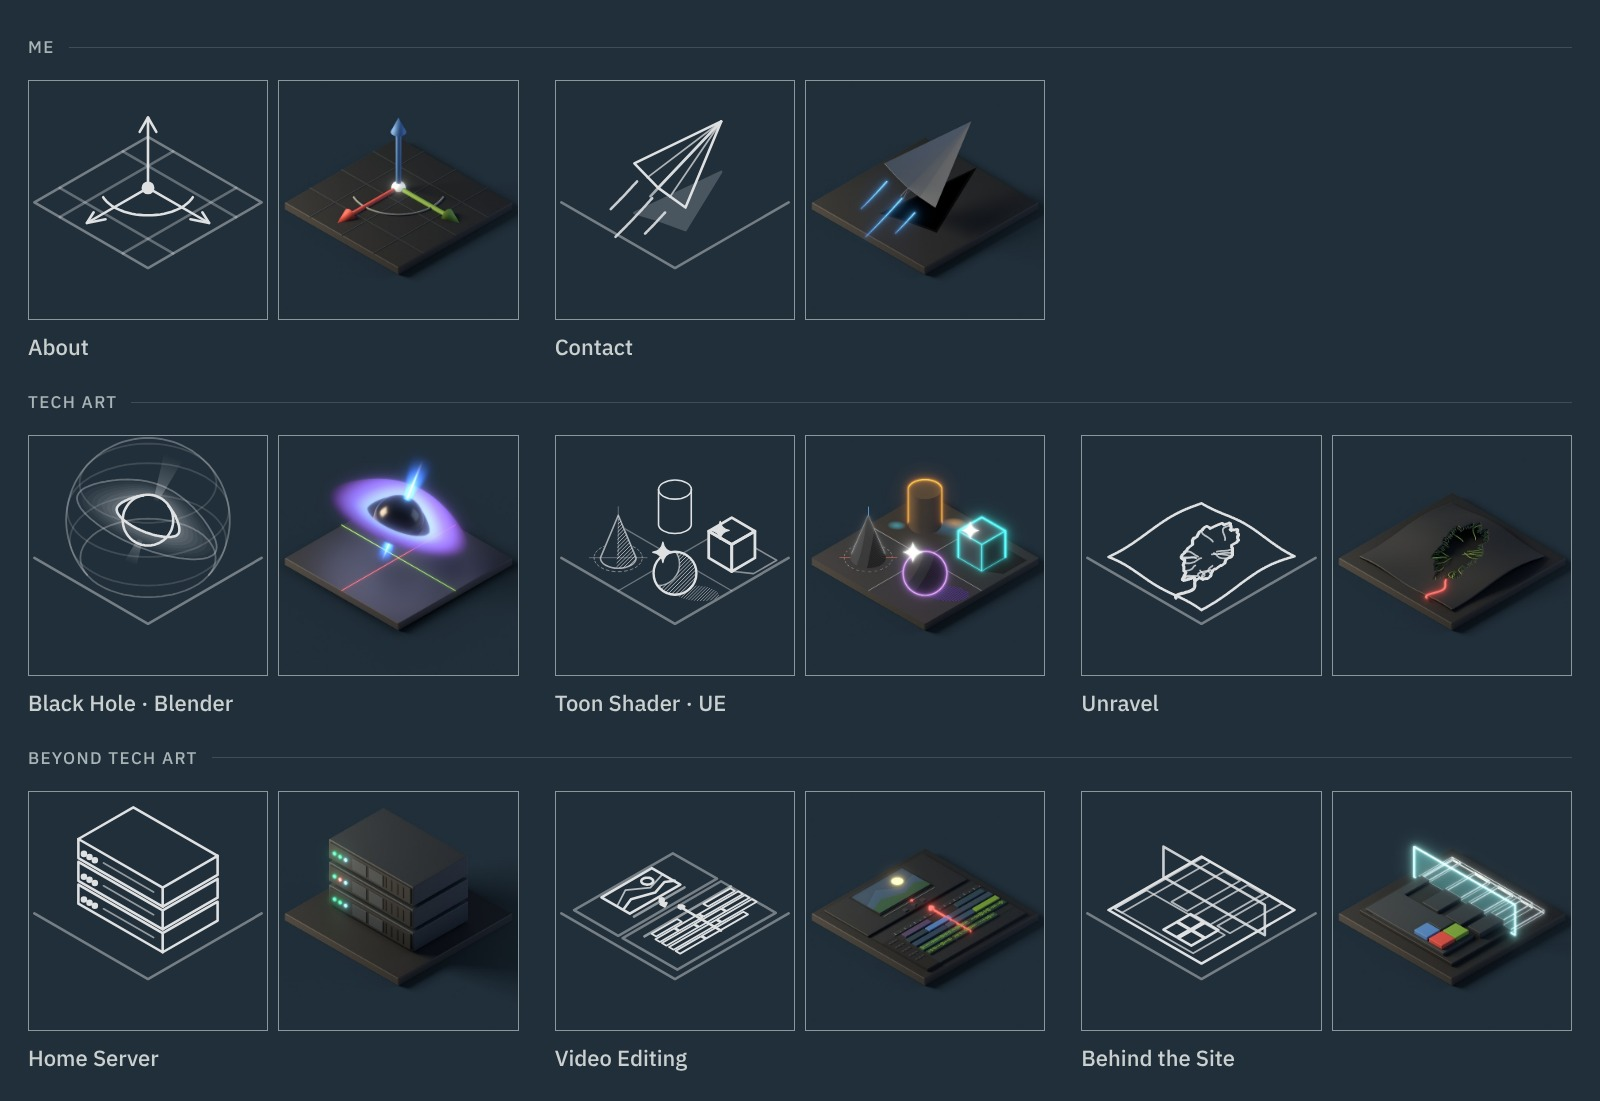
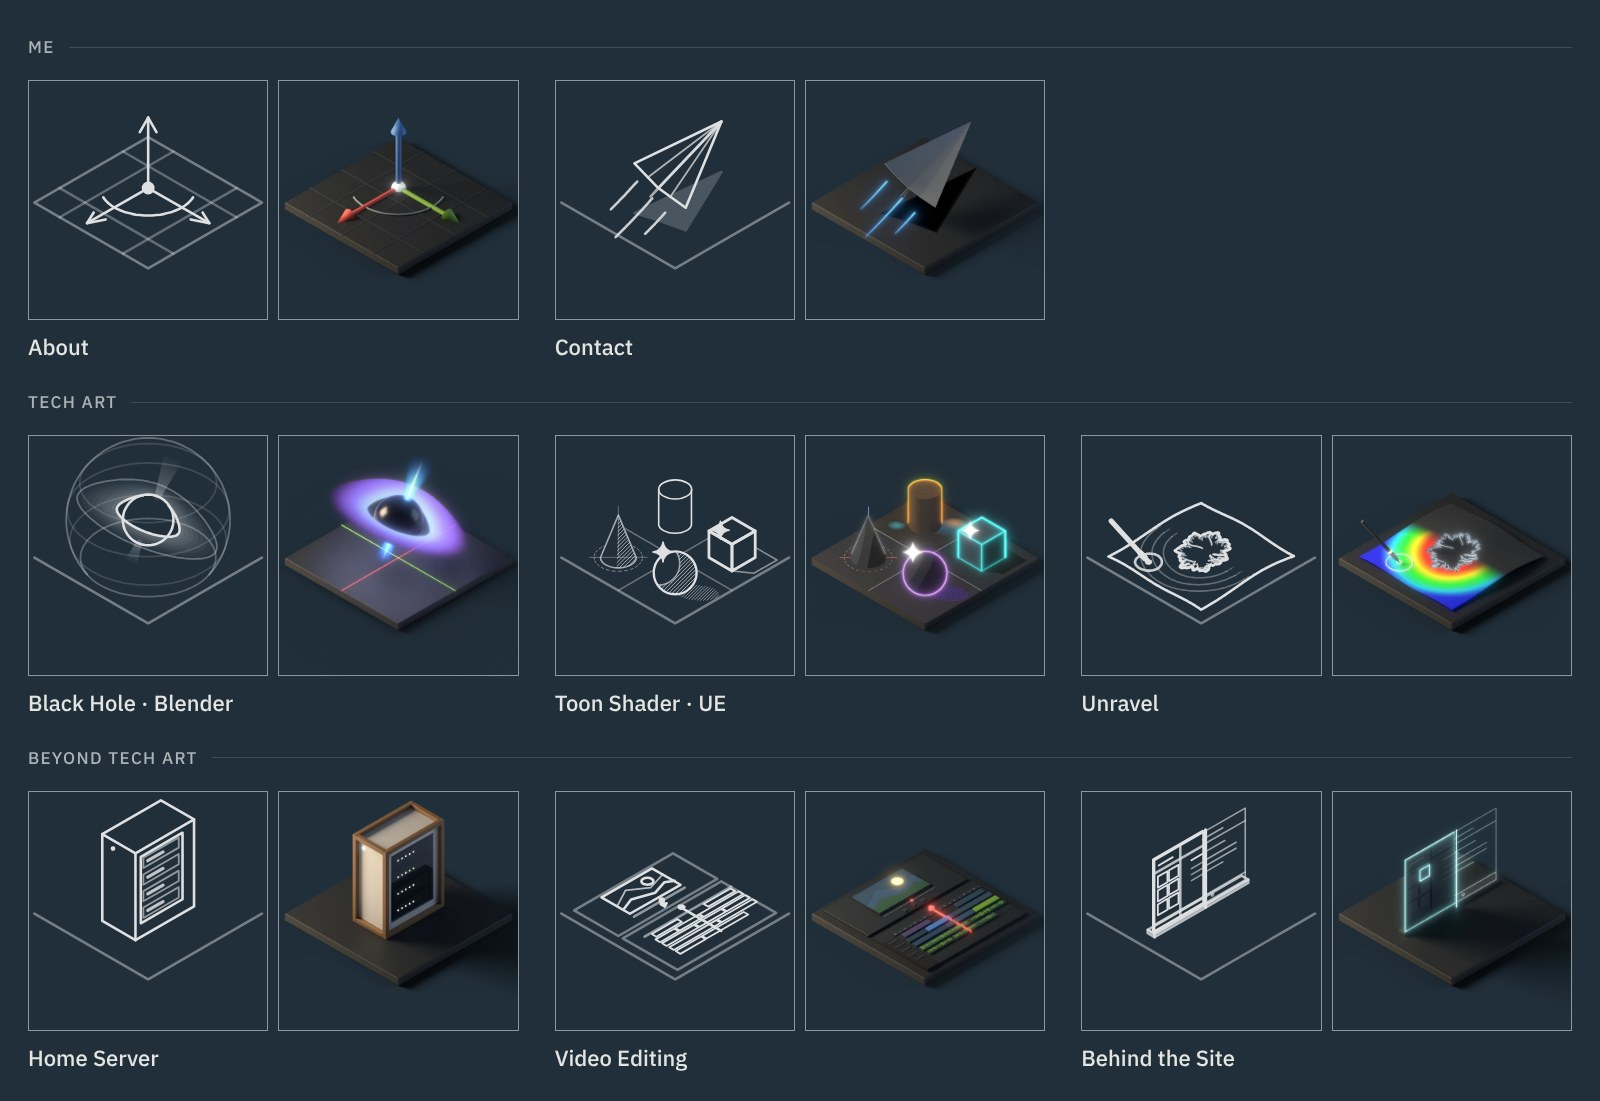
Updated tile grid

diff --git a/behind-the-site.html b/behind-the-site.html
@@ -108,7 +108,7 @@
     <div class="feature flip">
       <div class="feature-text">
         <h3>The frame</h3>
-        <p>The page sits on a few soft glows, fixed in place so they don't move as you scroll. Over them is one grid of glass panels, each a translucent tint that blurs what's behind it, with a bright hairline along its top edge.</p>
+        <p>The page sits on a few soft glows, fixed in place so they don't move as you scroll. Over them is one grid of glass panels, each a translucent tint with a bright hairline along its top edge. Nothing moves behind the frame, so the panels skip the usual glass blur: it only ever smoothed the glows, and a browser that redraws part of a blurred panel can leave a faint seam.</p>
         <p>The panels have a 1px gap between them, and each one's edge line falls into that gap, so the lines all meet without a border drawn by hand. A fine grain over everything keeps the glows from banding. Where a browser has no glass, or a visitor asks for less transparency, the panels turn solid.</p>
       </div>
       <figure class="frame-fig" role="img" aria-label="Diagram: the glows, plus the glass panels laid on top with small gaps, make the page. The gaps are drawn wider than they are.">
